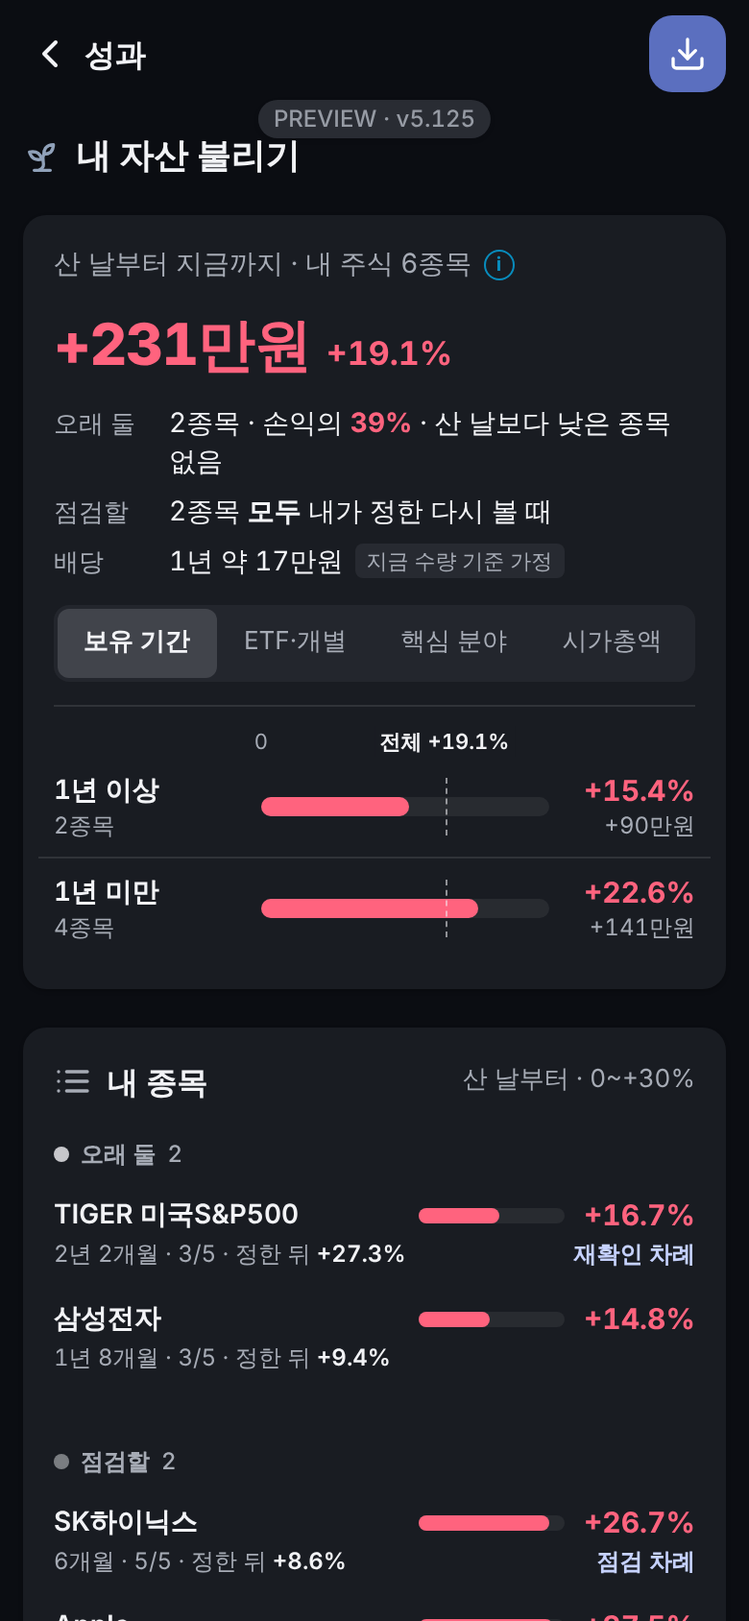
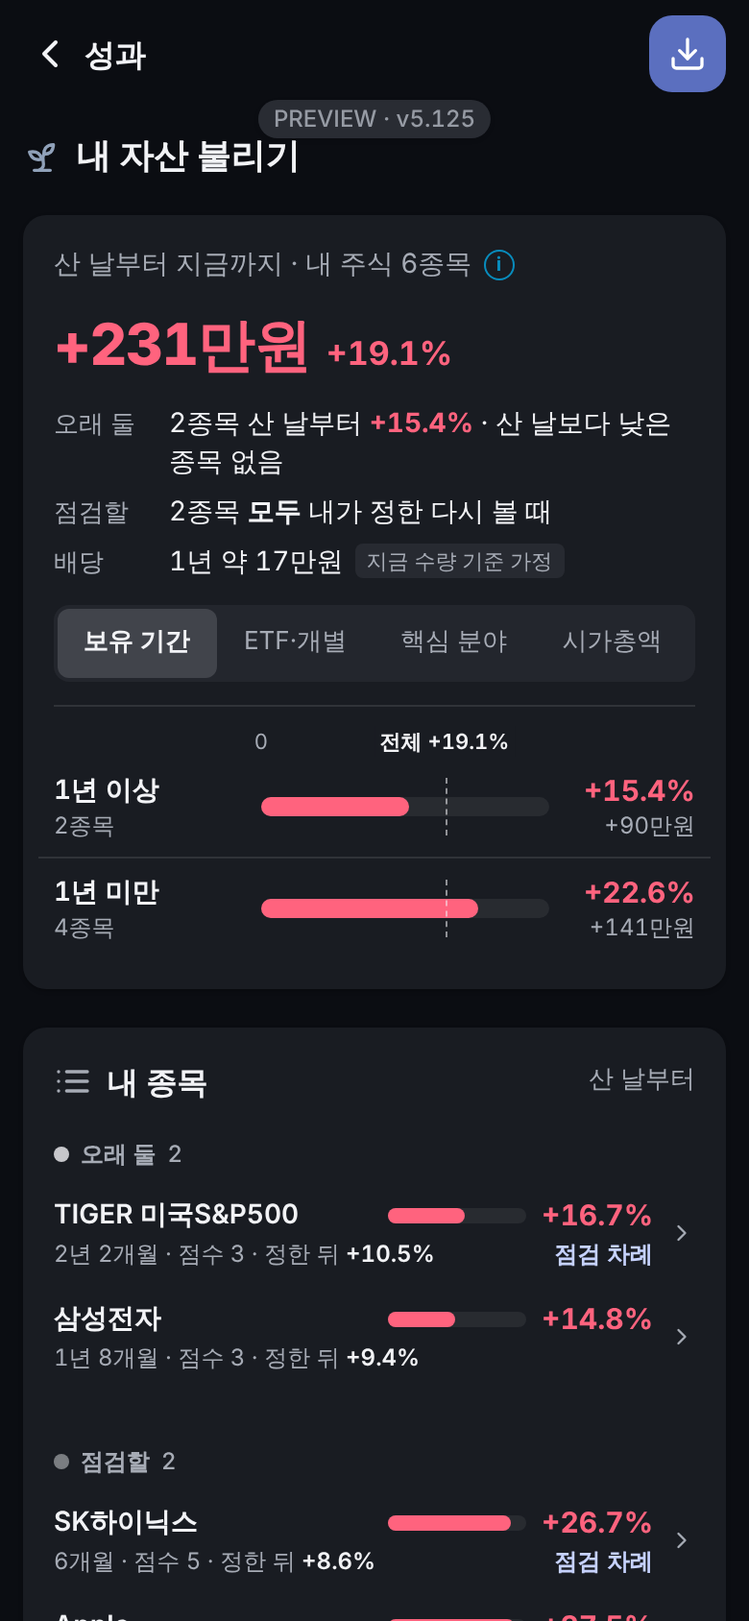
memory: #239 대리 검토 통합 — 개선판 5b 확정

diff --git a/issues/5.125-239-grow-my-assets/tools/mock-redesign5b.html b/issues/5.125-239-grow-my-assets/tools/mock-redesign5b.html
@@ -137,7 +137,7 @@
 .mk-fact span { font-size: 11px; line-height: 14px; color: var(--muted-foreground); white-space: nowrap; }
 .mk-fact b { font-size: 15px; line-height: 20px; font-weight: 700; white-space: nowrap; }
 .mk-choices { display: grid; grid-template-columns: repeat(3, minmax(0, 1fr)); gap: 6px; }
-.mk-choices span { min-height: 40px; display: grid; place-items: center; border-radius: 8px; background: var(--muted); font-size: 13px; font-weight: 600; white-space: nowrap; }
+.mk-choices span { min-height: 44px; display: grid; place-items: center; border-radius: 8px; background: var(--muted); font-size: 13px; font-weight: 600; white-space: nowrap; }
 .mk-hist { display: flex; flex-direction: column; }
 .mk-hist-h { font-size: 12px; color: var(--muted-foreground); line-height: 16px; margin-bottom: 4px; }
 .mk-hist-row { display: grid; grid-template-columns: 14px 64px minmax(0, 1fr) auto; column-gap: 6px; align-items: center; min-height: 28px; font-size: 13px; }
@@ -178,13 +178,15 @@
 .mk-grp-h i { width: 8px; height: 8px; border-radius: 999px; display: inline-block; }
 .mk-grp-h span { font-weight: 500; }
 .mk-grp + .mk-grp { margin-top: 12px; }
-.mk-item { all: unset; box-sizing: border-box; width: calc(100% + 16px); display: grid; grid-template-columns: minmax(0, 1fr) 76px 60px; grid-template-rows: auto auto; column-gap: 8px; row-gap: 2px; align-items: center; padding: 8px 8px; margin: 0 -8px; border-radius: 8px; cursor: pointer; }
+.mk-item { all: unset; box-sizing: border-box; width: calc(100% + 16px); display: grid; grid-template-columns: minmax(0, 1fr) 72px 58px 14px; grid-template-rows: auto auto; column-gap: 8px; row-gap: 2px; align-items: center; padding: 8px 8px; margin: 0 -8px; border-radius: 8px; cursor: pointer; }
 .mk-item:last-child { border-bottom: 0; }
 .mk-item[aria-expanded="true"] { background: color-mix(in oklab, var(--foreground) 6%, transparent); border-bottom-color: transparent; border-radius: 8px 8px 0 0; }
 .mk-item .n { font-size: 14px; font-weight: 600; line-height: 20px; word-break: keep-all; min-width: 0; }
 .mk-item .p { text-align: right; font-size: 15px; line-height: 20px; font-weight: 700; }
 .mk-item .m { grid-column: 1 / 3; font-size: 12px; line-height: 16px; color: var(--muted-foreground); word-break: keep-all; }
 .mk-item .m b { color: var(--foreground); font-weight: 600; }
+.mk-item .cv { grid-row: 1 / 3; grid-column: 4; color: var(--muted-foreground); display: grid; place-items: center; }
+.mk-item[aria-expanded="true"] .cv svg { transform: rotate(90deg); }
 .mk-item .d { grid-column: 3; text-align: right; font-size: 12px; line-height: 16px; font-weight: 600; color: oklch(0.87 0.065 274); white-space: nowrap; justify-self: end; }
 .mk-item .d.wide { grid-column: 2 / 4; }
 /* 점검 한 장 */
@@ -202,6 +204,11 @@
 .mk-memo { grid-column: 2 / 4; }
 .mk-hidetag { position: relative; outline: 1.5px dashed oklch(0.8 0.12 85 / 0.9); outline-offset: 2px; }
 .mk-hidetag::before { content: "목업 표시 · 캡처 숨김(data-screenshot-hide)"; position: absolute; right: 0; top: -18px; font-size: 10px; line-height: 14px; padding: 0 4px; border-radius: 4px; background: oklch(0.8 0.12 85); color: #111; white-space: nowrap; }
+.mk-plansum { all: unset; box-sizing: border-box; width: 100%; display: grid; grid-template-columns: auto minmax(0, 1fr) 14px; column-gap: 8px; align-items: center; min-height: 44px; padding: 0 12px; border-radius: 8px; background: var(--background); box-shadow: inset 0 0 0 1px color-mix(in oklab, var(--foreground) 14%, transparent); font-size: 13px; cursor: pointer; }
+.mk-plansum .k { font-weight: 700; white-space: nowrap; }
+.mk-plansum .v { color: var(--muted-foreground); white-space: nowrap; overflow: hidden; text-overflow: ellipsis; text-align: right; }
+.mk-choices span.two { display: flex; flex-direction: column; gap: 0; line-height: 18px; }
+.mk-choices span.two small { font-size: 11px; line-height: 14px; font-weight: 500; color: var(--muted-foreground); }
 .mk-note { font-size: 12px; line-height: 16px; color: var(--muted-foreground); word-break: keep-all; }
 </style>
 </head>
@@ -211,11 +218,11 @@
 // 데모 값: redesign.md 5-1·5-6(데모 JSON 시세, USD 1,400원, 11/18). opts: panel(축 패널 열기), open(점검 한 장), loss(오래 둘 마이너스 주입)
 function renderMock(root, opts = {}) {
   const S = [ // 산 날부터 손익·원가, 정한 뒤/점검 뒤 %, 상태
-    { name: "TIGER 미국S&P500", g: "keep", hold: "2년 2개월", score: "3/5", pl: 315000, cost: 1890000, since: ["정한 뒤", 27.3], due: "재확인 차례", age: 26 },
-    { name: "삼성전자", g: "keep", hold: "1년 8개월", score: "3/5", pl: 585000, cost: 3965000, since: ["정한 뒤", 9.4], age: 20 },
-    { name: "Apple", g: "check", hold: "6개월", score: "5/5", pl: 816300, cost: 2963700, since: ["점검 뒤", 9.8], due: "점검 차례", age: 6.4 },
-    { name: "SK하이닉스", g: "check", hold: "6개월", score: "5/5", pl: 200000, cost: 750000, since: ["정한 뒤", 8.6], due: "점검 차례", age: 6.9 },
-    { name: "KODEX 200", g: "none", hold: "9개월", score: "4/5", pl: 120000, cost: 1360000, age: 9 },
+    { name: "TIGER 미국S&P500", g: "keep", hold: "2년 2개월", score: "점수 3", pl: 315000, cost: 1890000, since: ["정한 뒤", 10.5], due: "점검 차례", age: 26 },
+    { name: "삼성전자", g: "keep", hold: "1년 8개월", score: "점수 3", pl: 585000, cost: 3965000, since: ["정한 뒤", 9.4], age: 20 },
+    { name: "Apple", g: "check", hold: "6개월", score: "점수 5", pl: 816300, cost: 2963700, since: ["점검 뒤", 9.8], due: "점검 차례", age: 6.4 },
+    { name: "SK하이닉스", g: "check", hold: "6개월", score: "점수 5", pl: 200000, cost: 750000, since: ["정한 뒤", 8.6], due: "점검 차례", age: 6.9 },
+    { name: "KODEX 200", g: "none", hold: "9개월", score: "점수 4", pl: 120000, cost: 1360000, age: 9 },
     { name: "NVIDIA", g: "none", hold: "5개월", score: "측정 중", pl: 276800, cost: 1179200, note: "9월 19일 점검할에서 뺌", age: 5 },
   ];
   if (opts.first) S.forEach((s) => { s.g = "none"; delete s.due; delete s.since; delete s.note; });
@@ -240,21 +247,21 @@ function renderMock(root, opts = {}) {
   const GROUPS = [["keep", "오래 둘", "color-mix(in oklab, var(--foreground) 80%, transparent)"], ["check", "점검할", "color-mix(in oklab, var(--foreground) 45%, transparent)"], ["none", "아직 안 정함", "transparent; box-shadow: inset 0 0 0 1.5px color-mix(in oklab, var(--foreground) 45%, transparent)"]];
   const HOLD = [["1년 이상", ["TIGER 미국S&P500", "삼성전자"]], ["1년 미만", ["Apple", "SK하이닉스", "KODEX 200", "NVIDIA"]]].map(([g, n]) => { const ss = S.filter((s) => n.includes(s.name)); return { g, n: ss.length, pl: sum(ss, "pl"), p: pct(sum(ss, "pl"), sum(ss, "cost")) }; });
   const I = { down: '<svg viewBox="0 0 24 24" fill="none" stroke="currentColor" stroke-width="2.5" stroke-linecap="round" stroke-linejoin="round"><path d="m6 9 6 6 6-6"/></svg>', chev: '<svg viewBox="0 0 24 24" width="16" height="16" fill="none" stroke="currentColor" stroke-width="2" stroke-linecap="round" stroke-linejoin="round"><path d="m9 18 6-6-6-6"/></svg>', list: '<svg viewBox="0 0 24 24" fill="none" stroke="currentColor" stroke-width="2" stroke-linecap="round"><path d="M8 6h13M8 12h13M8 18h13M3 6h.01M3 12h.01M3 18h.01"/></svg>' };
-  const panel = opts.panel ? `<div class="mk-panel" data-mk="panel"><div class="mk-groups">
+  const panel = (opts.panel || opts.first) ? `<div class="mk-panel" data-mk="panel"><div class="mk-groups">
       <div class="mk-scale mk-muted" aria-hidden="true"><div></div><div><span style="left:${X(0)}%;transform:translateX(-50%)">0</span><span style="left:${X(tPct)}%;color:var(--foreground);font-weight:600;background:var(--card);padding:0 3px">전체 ${fp(tPct)}</span></div><div></div></div>
       ${HOLD.map((x) => `<button class="mk-g"><span><span class="mk-g-name">${x.g}</span><span class="mk-g-sub">${x.n}종목</span></span><span class="mk-track"><span class="mk-fill" style="${bar(x.p)}"></span><span class="mk-ref" style="left:${X(tPct)}%"></span></span><span class="mk-g-val"><b class="${tone(x.p)}">${fp(x.p)}</b><span>${man(x.pl)}</span></span></button>`).join("")}
     </div></div>` : "";
   const sheet = (s) => `<div class="mk-sheet" data-mk="sheet">
       <div class="mk-why">점검 차례 · 정한 기간 3개월이 지났어요</div>
-      <div class="mk-choices"><span>그대로 둠</span><span>오래 둘로</span><span>정하지 않음</span></div>
-      <div class="mk-note" data-mk="plan-warn">점검할에서 옮기면 다시 볼 조건과 메모도 지워져요</div>
+      <div class="mk-choices"><span class="two">그대로 둠<small>다음 점검 2월 18일</small></span><span>오래 둘로</span><span>정하지 않음</span></div>
       <div class="mk-sec2" data-mk="plan">
-        <div class="mk-sec2-h">다시 볼 조건<span>내가 정해요</span></div>
+        ${opts.planOpen ? `<div class="mk-sec2-h">다시 볼 조건<span>내가 정해요</span></div>
         <div class="mk-cond"><span class="l">산 날부터</span><span class="mk-in">−<span class="v">10</span><span class="u">% 이하</span></span><span class="mk-in">+<span class="ph"></span><span class="u">% 이상</span></span></div>
         <div class="mk-cond"><span class="l">기간</span><span class="mk-in" style="grid-column:2/4"><span class="ph" style="color:var(--muted-foreground)">기본 3개월</span><span class="u" style="display:inline-flex">${I.down.replace('<svg', '<svg width="14" height="14"')}</span></span></div>
         <div class="mk-cond"><span class="l">메모</span><span class="mk-in mk-memo mk-hidetag" data-screenshot-hide><span style="overflow:hidden;text-overflow:ellipsis">실적 발표 뒤 다시 보기</span><span class="u">12/40</span></span></div>
-        <div class="mk-note">내가 정한 조건이에요. 앱이 권하는 값이 아니에요. 닿으면 이 화면에서만 '점검 차례'로 보여요.</div>
+        <div class="mk-note">내가 정한 조건이에요. 앱이 권하는 값이 아니에요</div>` : `<button class="mk-plansum" data-mk="plan-sum"><span class="k">다시 볼 조건</span><span class="v">−10% 이하 · 3개월 · 메모</span>${I.chev.replace('width="16" height="16"', 'width="14" height="14"')}</button>`}
       </div>
+      <div class="mk-note" data-mk="plan-warn">점검할에서 옮기면 다시 볼 조건과 메모도 지워져요</div>
       <div class="mk-hist"><div class="mk-hist-h">최근 기록 · 점검 2번 · 그대로 2번</div>
         <div class="mk-hist-row"><i></i><span class="d">7월 16일</span><span>그대로 둠</span><span class="r">그때 산 날부터 <b class="mk-up">+10.8%</b></span></div>
         <div class="mk-hist-row"><i></i><span class="d">6월 11일</span><span>그대로 둠</span><span class="r">그때 산 날부터 <b class="mk-up">+5.4%</b></span></div>
@@ -262,24 +269,24 @@ function renderMock(root, opts = {}) {
       <div class="mk-card1-foot"><span>매매 1건 · 최근 3개월 이 앱 기록</span><a>종목 페이지 ${I.chev}</a></div>
     </div>`;
   const row = (s) => { const p = pct(s.pl, s.cost); const meta = [s.hold, s.score, s.since ? `${s.since[0]} <b>${fp(s.since[1])}</b>` : null, s.note].filter(Boolean).join(" · ");
-    return `<button class="mk-item" data-mk="item" aria-expanded="${opts.open === s.name}"><span class="n">${s.name}</span><span class="mk-track" style="height:8px"><span class="mk-fill" style="${bar(p)}"></span></span><span class="p ${tone(p)}">${fp(p)}</span><span class="m">${meta}</span>${s.due ? `<span class="d">${s.due}</span>` : ""}</button>${opts.open === s.name ? sheet(s) : ""}`; };
+    return `<button class="mk-item" data-mk="item" aria-expanded="${opts.open === s.name}"><span class="n">${s.name}</span><span class="mk-track" style="height:8px"><span class="mk-fill" style="${bar(p)}"></span></span><span class="p ${tone(p)}">${fp(p)}</span><span class="cv">${I.chev.replace('width="16" height="16"', 'width="14" height="14"')}</span><span class="m">${meta}</span>${s.due ? `<span class="d">${s.due}</span>` : ""}</button>${opts.open === s.name ? sheet(s) : ""}`; };
   root.innerHTML = `<div class="mk" data-mock="redesign5">
   <div class="mk-left">
   <section class="mk-sec" data-mk="hero">
     <div class="mk-hero-label mk-muted">산 날부터 지금까지 · 내 주식 ${S.length}종목 <span class="mk-i">i</span></div>
     <div class="mk-hero-num ${tone(tPl)}"><b>${man(tPl)}</b><span>${fp(tPct)}</span></div>
-    ${opts.first ? `<p class="mk-guide" data-mk="judge">오래 둘·점검할을 정하면 내 선택의 결과가 여기에 모여요.</p>` : `<dl class="mk-sum" data-mk="judge">
-      <dt>오래 둘</dt><dd>${keep.length}종목 · ${share2} · ${low2}</dd>
+    ${opts.first ? `<p class="mk-guide" data-mk="judge">종목을 누르면 오래 둘·점검할을 정할 수 있어요</p><dl class="mk-sum"><dt>배당</dt><dd>1년 약 17만원<span class="mk-tag">지금 수량 기준 가정</span></dd></dl>` : `<dl class="mk-sum" data-mk="judge">
+      <dt>오래 둘</dt><dd>${keep.length}종목 산 날부터 <b class="${tone(kPl)}">${fp(pct(kPl, sum(keep, "cost")))}</b> · ${low2}</dd>
       <dt>점검할</dt><dd>${c32}</dd>
       <dt>배당</dt><dd>1년 약 17만원<span class="mk-tag">지금 수량 기준 가정</span></dd>
     </dl>`}
-    <div class="mk-axes" role="group" aria-label="기준별로 보기" data-mk="chips">${["보유 기간", "ETF·개별", "핵심 분야", "시가총액"].map((c, i) => `<button class="mk-axchip5b" aria-expanded="${!!opts.panel && i === 0}">${c}</button>`).join("")}</div>
+    <div class="mk-axes" role="group" aria-label="기준별로 보기" data-mk="chips">${["보유 기간", "ETF·개별", "핵심 분야", "시가총액"].map((c, i) => `<button class="mk-axchip5b" aria-expanded="${(!!opts.panel || !!opts.first) && i === 0}">${c}</button>`).join("")}</div>
     ${panel}
   </section>
   </div>
   <section class="mk-sec" data-mk="list">
-    <div class="mk-list-h"><div class="mk-h">${I.list}내 종목</div><span class="mk-sort">산 날부터 · ${lo < 0 ? `−${-lo}%` : "0"}~+${hi}%</span></div>
-    ${GROUPS.map(([k, label, dot]) => { const rows = order(S.filter((s) => s.g === k)); if (!rows.length) return ""; return `<div class="mk-grp" data-mk="grp"><div class="mk-grp-h"><i style="background:${dot}"></i>${label}<span>${rows.length}</span></div>${rows.map(row).join("")}</div>`; }).join("")}
+    <div class="mk-list-h"><div class="mk-h">${I.list}내 종목</div><span class="mk-sort">산 날부터</span></div>
+    ${GROUPS.map(([k, label, dot]) => { const rows = order(S.filter((s) => s.g === k)); if (!rows.length) return ""; return `<div class="mk-grp" data-mk="grp"><div class="mk-grp-h"><i style="background:${dot}"></i>${label}<span>${rows.length}${k === "none" && opts.first ? " · 눌러서 정해요" : ""}</span></div>${rows.map(row).join("")}</div>`; }).join("")}
     <div class="mk-cycle"><span>점검할 기본 주기</span><span class="mk-muted" style="display:inline-flex;align-items:center;gap:2px">3개월 ${I.chev}</span></div>
   </section>
 </div>`;

diff --git a/issues/5.125-239-grow-my-assets/5.125-redesign.md b/issues/5.125-239-grow-my-assets/5.125-redesign.md
@@ -504,3 +504,57 @@ reviews[i].hit? = "down"|"up"|"date"     // 조건에 닿아 점검했을 때만
 8. 카드 라벨 ⓘ 첫 줄에 `판 종목의 손익은 넣지 않아요`를 둔다(자주 매매하는 사람).
 9. 아직 안 정함 행 2줄의 `9월 19일 점검할에서 뺌`은 최근 90일 안의 기록일 때만 보인다(오래된 기록이 행을 차지하지 않게).
 - 바꾸지 않는 것: 두 덩어리 구조, 묶음 순서, 오래 둘 손실 행 먼저, 저장 계층(plan·reviews), 추천 아님 조건(5차 판정 ①~⑥).
+
+# 5차 대리 검토 — 디자인 (ui-designer, 2026-11-18, C137)
+기준: 5차 목업 `screenshots/mock/redesign5-*`, 같은 데모 값. 코드 수정 0. 이 절 뒤에 들어온 COO·사업 절의 P1 6건과 사업 1건을 개선판에 모두 반영했다.
+
+## 1. 한눈 요약 원칙과 비교 (토스·애플 수준 금융 앱 기준)
+| 원칙 | 5차 | 판정 |
+|---|---|---|
+| **정보 밀도**: 첫 화면에 결론 1개 + 훑을 목록 | 큰 숫자 아래 판단 문장 3개(390에서 시각 4줄)와 배당 줄이 이어진다. 문장을 끝까지 읽어야 뜻이 잡힌다 | 개선: 라벨 열 + 값의 정의 목록 3행(`오래 둘`·`점검할`·`배당`). 왼쪽 라벨만 훑어도 무엇에 대한 줄인지 보인다 |
+| **숫자 위계**: 한 행에 주인공 숫자 1개 | 행 1줄 %(손익색) 1개 + 2줄 `정한 뒤 %` + 점수 `3/5`. `3/5`가 분수·비율처럼 읽힌다 | 개선: `점수 3` 라벨. `정한 뒤 %`는 굵은 본문색(주인공은 1줄 %) 유지 |
+| **반복 요소**: 같은 사실을 두 번 쓰지 않음 | 점검 한 장의 사실 4칸(산 날부터·점수·보유·점검 뒤)이 바로 위 행 두 줄과 **전부 같은 값** | 개선: 사실 칸 삭제 |
+| **빈 공간·구분**: 선 대신 간격 | 묶음 머리 하단선 + 행마다 하단선 + 카드 헤어라인으로 줄이 많다 | 개선: 행 구분선 삭제, 묶음 머리는 12px muted 라벨, 묶음 사이 12px 간격 |
+| **터치 흐름**: 누를 곳이 보임, 한 번에 한 결정 | 칩 4개가 390에서 넷째가 잘린 가로 스크롤이다. 행에는 누름 단서가 없다. 점검 한 장에 섹션 7개(사실·이유·선택·경고·조건 폼 4줄·기록·바닥) | 개선: 4칸 균등 버튼(잘림 0), 모든 행 `›`, 조건은 요약 1줄(누르면 폼), `그대로 둠` 안에 결과 `다음 점검 2월 18일` |
+
+## 2. 요소별 판단
+| 요소 | 판단 | 근거 |
+|---|---|---|
+| 판단 3문장 | **합침** → 정의 목록 2행(오래 둘·점검할) | 대표 '판단 필요'는 유지한다. 문장 꼴은 라벨 열로 바꾼다. 오래 둘은 늘 수익률 꼴 `2종목 산 날부터 +15.4% · 산 날보다 낮은 종목 없음`(COO P1-2)이다 |
+| 배당 줄 | **있어야 함**, 목록 3행째로 | 4차 대표 확정 '기존 기능 연결'. 따로 떨어진 줄이 아니라 같은 정의 목록의 한 행이다 |
+| 칩 4개 | **있어야 함**, 4칸 균등 버튼으로 | 대표 3차 지시(기준별 점검)의 유일한 입구다. 가로 스크롤은 넷째 축을 숨겨 '4개가 있다'를 못 보여 준다. 묶음 1개뿐인 축 숨김은 개발 중(COO P2) |
+| 행 2줄 `정한 뒤 %` | **있어야 함** | 4·5차 '선택의 결과'의 유일한 화면 위치다. 막대 없이 숫자만 두고 손익색도 쓰지 않는다(주인공과 구분) |
+| 점검 한 장 섹션 수 | **7 → 5** | 사실 4칸 삭제(중복), 조건 폼 → 요약 1줄(누르면 폼), 안내 2개 → 요약 아래 1줄 `점검할에서 옮기면 다시 볼 조건과 메모도 지워져요`(폼을 열면 `내가 정한 조건이에요. 앱이 권하는 값이 아니에요`) |
+| 목록 범례 `0~+30%` | **뺌**(COO P1-1) | 막대는 비교용이라 눈금 숫자는 읽을 일이 거의 없다. 머리 오른쪽은 기준 `산 날부터`만 둔다 |
+| `재확인 차례` | **`점검 차례`로 통일**(COO P1-3) | 같은 행동(다시 보기)을 두 낱말로 부르지 않는다. 오래 둘인지 점검할인지는 묶음 위치가 말한다 |
+
+## 3. 첫 3초 시나리오 (개선판 390 첫 화면)
+- **장기 보유자**: `+231만원 +19.1%` → 오래 둘 줄 `2종목 산 날부터 +15.4% · 산 날보다 낮은 종목 없음` → 목록 맨 위 TIGER `점검 차례`. '내 장기 보유가 어떤지, 지금 볼 것이 무엇인지'가 3초 안에 끝난다.
+- **단타 사용자**(보유 기간이 짧고 정한 것이 없음): 큰 숫자 → 안내 1줄 `종목을 누르면 오래 둘·점검할을 정할 수 있어요` → 보유 기간 패널(기본으로 열림)에서 `1년 미만` 막대 → 목록 `아직 안 정함 · 눌러서 정해요`. 행 둘째 줄에 `측정 중`이 보여 짧은 보유는 점수가 없다는 것이 바로 보인다.
+- **첫 사용자**: 단타와 같은 화면(`redesign5b-390-first-user`)이다. 빈 판단 문장(`…아직 없어요` 2줄) 대신 행동 1줄이 있고, 모든 행 `›`로 누를 곳이 보인다(COO P1-4, 사업 제안). 빈 묶음은 머리째 숨긴다.
+
+## 4. 개선안 (우선순위) — 모두 개선판에 반영
+| 순 | 수정 | 출처 |
+|---|---|---|
+| P1 | 판단 3문장 + 배당 → 정의 목록 3행, 오래 둘은 늘 수익률 꼴 | 디자인 + COO P1-2 |
+| P1 | 점검 한 장: 사실 4칸 삭제, 조건 요약 1줄(누르면 폼), 안내 1줄, `그대로 둠` 아래 `다음 점검 2월 18일` | 디자인 + COO P1-5 |
+| P1 | 첫 사용자: 안내 1줄, 보유 기간 패널 기본 열림, `아직 안 정함 N · 눌러서 정해요` | COO P1-4 + 사업 |
+| P1 | 모든 행 `›`(펼치면 아래로 회전) | COO P1-4 |
+| P1 | 점수 `점수 3`, 목록 범례 삭제, `점검 차례` 통일 | COO P1-1·3 |
+| P1 | 데모 TIGER 시드 조정안(ui.md 5b절) — 목업은 조정 뒤 값 `정한 뒤 +10.5%` | COO P1-6 |
+| P2 | 칩 → 4칸 균등 버튼(잘림 0), 행 구분선 삭제·묶음 머리 가볍게 | 디자인 |
+| P2(개발) | 묶음 1개 축 숨김, 카드 ⓘ 첫 줄 `판 종목의 손익은 넣지 않아요`, `점검할에서 뺌` 90일 한정 | COO P2 |
+| 유지 | 허브 셋째 카드 큰 값 `점검 차례 3종목` + 둘째 줄 합계(카드 높이 138 그대로, 360 미만 `지금까지` 생략) | 사업 |
+
+## 5. 결론 — **개선판(redesign5b)**
+캡처(`screenshots/mock/`):
+- `redesign5b-390-first.png`, `redesign5b-390-first-user.png`, `redesign5b-390-sheet.png`, `redesign5b-390-sheet-plan-open.png`, `redesign5b-390-chip-open.png`
+- `redesign5b-hub-390.png`, `redesign5b-hub-320.png`
+- 보조: `redesign5b-390-keep-loss-inject.png`, `redesign5b-320-first.png`, `redesign5b-1280.png`
+
+도구: `tools/mock-redesign5b.html`, `tools/mock-redesign5b-shot.mjs`, `tools/mock-redesign5b-hub.mjs`
+
+실측:
+- 390 첫 화면: 카드 아래 끝 371, 오래 둘 2행 525·579, 점검할 2행 685·739(5차 752보다 13px 위). 숫자 줄은 라벨·큰 숫자·정의 목록 3행 = 5행(C136 ④ 이내).
+- 전 캡처 넘침 0, 히트영역 40 이상.
+- 허브 카드 높이 138(배당 카드와 같음). 둘째 줄은 390에서 42px, 320에서 31px 여유다.

diff --git a/issues/5.125-239-grow-my-assets/5.125-ui.md b/issues/5.125-239-grow-my-assets/5.125-ui.md
@@ -562,3 +562,31 @@
 1. 5-1 텍스트 목업은 점검할 순서가 Apple → SK하이닉스인데, 5-1 정렬 규칙(차례 → 오래 가진 순)으로는 SK하이닉스(6.9개월)가 먼저다. 규칙을 따랐다.
 2. 문장 ①은 390에서 2줄로 감긴다(`…39%이고, 산 날보다` / `낮은 종목은 없어요.`). 문장 수는 3개이고 시각 줄은 3줄이다.
 3. 메모 `data-screenshot-hide`에 따라 인증·공유 캡처에서 점검 한 장 메모 칸이 빠진다. 그 자리를 비울지, 칸째 접을지는 developer가 정한다(칸째 접기를 권함).
+
+# 재설계 5차 개선판 5b (ui-designer, 2026-11-18, 대리 검토 C137 최종안)
+- 근거: `5.125-redesign.md` '5차 대리 검토 — 디자인'(결론 = 개선판), COO P1 6건·P2, 사업 1건. 이 절이 5차 시각안 A절보다 우선한다. 캡처는 `screenshots/mock/redesign5b-*`, 도구는 `tools/mock-redesign5b*`.
+- **결론 카드**: 라벨 → 큰 숫자 → 정의 목록 3행 → 기준 4칸 → (펼침) 막대 패널.
+  - 정의 목록은 `grid-cols-[52px_1fr]`, 라벨 13 muted, 값 14 본문색이고 손익색은 %에만 쓴다.
+    - `오래 둘` 2종목 산 날부터 **+15.4%** · 산 날보다 낮은 종목 없음 / `점검할` 2종목 **모두** 내가 정한 다시 볼 때 / `배당` 1년 약 17만원 [지금 수량 기준 가정]
+  - 기준 4칸: 균등 4열 버튼(36px + 의사요소 = 40)이다. 기본은 아무것도 펼치지 않는다. 펼친 칸만 면을 깐다.
+- **첫 사용자**(정한 것 0):
+  - 정의 목록 앞 2행을 `종목을 누르면 오래 둘·점검할을 정할 수 있어요` 1줄로 바꾼다. 배당 행은 남긴다.
+  - 보유 기간 패널을 기본으로 연다. 묶음은 `아직 안 정함 N · 눌러서 정해요` 하나만 보이고, 빈 묶음은 머리째 숨긴다.
+- **내 종목 행**: [이름 / `기간 · 점수 N · 정한 뒤|점검 뒤 %`] [막대 72] [% 58] [`›` 14, 두 줄 높이 가운데]. 행 구분선이 없다. 묶음 머리는 12 600 muted + 점, 묶음 사이 12px. 차례 글자는 모두 `점검 차례`다. 목록 머리 오른쪽은 `산 날부터`만 둔다(범례 삭제).
+- **점검 한 장**(5 섹션):
+  1. 차례 이유
+  2. 선택 3버튼(44px). `그대로 둠` 안 둘째 줄에 `다음 점검 2월 18일`(11 muted)
+  3. `다시 볼 조건` 요약 버튼 1줄 `−10% 이하 · 3개월 · 메모 ›`(44px). 누르면 폼이 열린다(`redesign5b-390-sheet-plan-open`: 하한·상한 빈 칸, 기간, 메모 — 캡처 숨김, 안내 `내가 정한 조건이에요. 앱이 권하는 값이 아니에요`)
+  4. 안내 1줄 `점검할에서 옮기면 다시 볼 조건과 메모도 지워져요`
+  5. 최근 기록 + 바닥 줄
+  - 메모 내용은 요약에 쓰지 않고 `메모`라는 표시만 둔다.
+- **허브 셋째 카드**(사업): 큰 값 `점검 차례 3종목`(숫자만 indigo-200), 둘째 줄 `산 날부터 지금까지 +231만원 (+19.1%)`이다. 360 미만은 `지금까지`를 뺀다. 카드 높이 138은 그대로이고 배당 카드와 같다(`redesign5b-hub-{390,320}.png`).
+
+## 데모 TIGER 시드 조정안 (COO P1-6, 수정은 developer)
+- 현상: TIGER는 평단 18,000원, 정한 날 가격(base.price) 16,500원이다. 그래서 `정한 뒤 +27.3%`가 `산 날부터 +16.7%`보다 크다. 정한 날(13개월 전)이 산 날(26개월 전)보다 뒤인데 가격이 평단 밑이었다는 설정이라, '오래 둘로 정한 뒤 더 올랐다'가 실제 성과보다 크게 읽힌다.
+- 조정안: `demo-data.json` stockLabels `360750.base.price` 16,500 → **19,000**. 그러면 JSON 시세 21,000 기준 `정한 뒤 +10.5%` < `산 날부터 +16.7%`가 된다. 데모 실시세 재기준에서도 같은 배율이 걸리므로 순서가 유지된다(`rebaseDemoLabelPrices`).
+- 확인할 것:
+  - 4-6의 데모 % 범위 테스트(−15~+30%) 안이다.
+  - 재확인(12개월)은 labeledAt `@M-13D1` 그대로라 `점검 차례`가 유지된다.
+  - C134에 따라 이 값을 쓰는 화면(불리기 1곳)만 대조한다.
+- 목업 5b는 조정 뒤 값(+10.5%)으로 그렸다.
